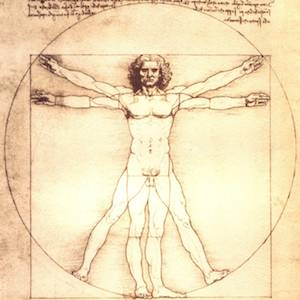
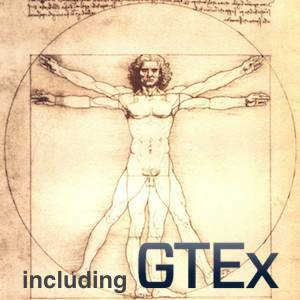
Make visible that Bgee contains GTEx data

Changed region(s): [[0.45, 0.78, 0.93, 0.99], [0.06, 0.9, 0.42, 0.99]]

diff --git a/bgee-webapp/src/main/java/org/bgee/view/html/HtmlDocumentationDisplay.java b/bgee-webapp/src/main/java/org/bgee/view/html/HtmlDocumentationDisplay.java
@@ -384,12 +384,123 @@ public class HtmlDocumentationDisplay extends HtmlParentDisplay implements Docum
                 "Download the complete dump of the MySQL Bgee database, that contains "
                         + "all the data used to generate the information displayed on this website."));
 
-
-        this.writeln("</div>");
+        this.writeln("</div>"); // close feature_list
         
         this.endDisplay();
 
         log.exit();
+    }
+
+    @Override
+    public void displayDataSets() {
+        log.entry();
+
+        RequestParameters urlExprCalls = this.getNewRequestParameters();
+        urlExprCalls.setPage(RequestParameters.PAGE_DOWNLOAD);
+        urlExprCalls.setAction(RequestParameters.ACTION_DOWLOAD_CALL_FILES);
+
+        RequestParameters urlSearch = this.getNewRequestParameters();
+        urlSearch.setPage(RequestParameters.PAGE_GENE);
+        
+        RequestParameters urlTopAnat = this.getNewRequestParameters();
+        urlTopAnat.setPage(RequestParameters.PAGE_TOP_ANAT);
+
+        this.startDisplay("Data sets into Bgee");
+
+        this.writeln("<h1>GTEx data into Bgee</h1>");
+
+        this.writeln("<div class='row'>");
+        this.writeln("<div class='" + CENTERED_ELEMENT_CLASS + "'>");
+
+        this.writeln("<div id='bgee_introduction'><p>In addition to the continuous growth of transcriptomics " +
+                "datasets, a few projects are generating very large amounts of data individually. " +
+                "Notably, <a href='https://www.gtexportal.org/home/' title='GTEx portal' target='_blank'>" +
+                "GTEx project</a> provides very interesting information on human gene expression.</p></div>");
+
+        this.writeln("<h2>Annotation process</h2>");
+        this.writeln("<div class='doc_content'>");
+        this.writeln("    <p>We applied a stringent re-annotation process to the GTEx data to retain " +
+                "only healthy tissues and non-contaminated samples, using the information available " +
+                "under restricted-access. For instance, we rejected all samples for 31&#37; of subjects, " +
+                "deemed globally unhealthy from the pathology report (e.g., drug abuse, diabetes, BMI &#62; 35), " +
+                "as well as specific samples from another 28&#37; of subjects who had local pathologies " +
+                "(e.g., brain from Alzheimer patients). We also rejected samples with contamination " +
+                "from other tissues.</p>" +
+                "        <p>In total, only 50&#37; of samples were kept; these represent a high quality " +
+                "subset of GTEx. All these samples were re-annotated manually to specific Uberon " +
+                "anatomy and aging terms.<p>");
+        this.writeln("</div>");
+        
+        this.writeln("<h2>GTEx data into Bgee</h2>");
+        this.writeln("<div class='doc_content'>");
+        this.writeln("<p>All corresponding RNA-seq were reanalyzed in the Bgee pipeline, " +
+                "consistently with all other healthy RNA-seq from human and other species. " +
+                "These data are being made available both through the website, " +
+                "and through <a href='https://bioconductor.org/packages/release/bioc/html/BgeeDB.html' " +
+                "class='external_link' target='_blank'>BgeeDB R package</a> " +
+                "(with sensitive information hidden).</p>");
+        this.writeln("</div>");
+
+        this.writeln("<h3>GTEx data into our website</h3>");
+        this.writeln("<div class='doc_content'>");
+        this.writeln("<ul>");
+        this.writeln("  <li>Annotations can be retrieved from <a href='"+ this.prop.getFTPRootDirectory() +
+                "/download/processed_expr_values/rna_seq/Homo_sapiens/Homo_sapiens_RNA-Seq_experiments_libraries.zip' " +
+                "title='Retrieve human RNA-Seq data per experiment'>RNA-Seq human experiments/libraries info</a>. " +
+                "Experiment ID of GTEx is 'SRP012682'.</li>");
+        this.writeln("  <li>Processed expression values, from GTEx only, are available on our FTP " +
+                "(<a href='" + this.prop.getFTPRootDirectory() + "/download/processed_expr_values/" +
+                "rna_seq/Homo_sapiens/Homo_sapiens_RNA-Seq_read_counts_TPM_FPKM_SRP012682.tsv.zip'>" +
+                "download file</a>).</li>");
+        this.writeln("  <li>Gene expression calls are included into <a href='" + urlExprCalls.getRequestURL() +
+                "#id1'>human files</a></li>");
+        this.writeln("  <li>Each human gene page and includes GTEx data if there is any " +
+                "(search a gene <a href='" + urlSearch.getRequestURL() + "'>here</a>).</li>");
+        this.writeln("  <li>TopAnat analyses can be performs <a href='" + urlTopAnat.getRequestURL() +
+                "'>here</a>, which leverage the power of the abundant GTEx data integrated " +
+                "with many smaller datasets to provide biological insight into gene lists.</li>");
+        this.writeln("</ul>");
+        this.writeln("</div>");
+
+        this.writeln("<h3>GTEx data using R package</h3>");
+        this.writeln("<div class='doc_content'>");
+        this.writeln("<ul>");
+        this.writeln("  <li>Annotations can be retrieved from RNA-Seq human experiments/libraries " +
+                "information. Experiment ID of GTEx is 'SRP012682'.");
+        this.writeln("<pre><code>{");
+        this.writeln("    bgee <- Bgee$new(species = \"Homo_sapiens\", dataType = \"rna_seq\")");
+        this.writeln("    myAnnotation <- getAnnotation(bgee)");
+        this.writeln("}");
+        this.writeln("</code></pre></li>");
+
+        this.writeln("  <li>Quantitative expression data and presence calls for GTEx can be loaded.");
+        this.writeln("<pre><code>{");
+        this.writeln("    bgee <- Bgee$new(species = \"Homo_sapiens\", dataType = \"rna_seq\")");
+        this.writeln("    dataGTEx <- getData(bgee, experimentId = \"SRP012682\")");
+        this.writeln("}");
+        this.writeln("</code></pre></li>");
+
+        this.writeln("  <li>TopAnat analyses can be performs, which leverage the power of the " +
+                "abundant GTEx data integrated with many smaller datasets to provide biological " +
+                "insight into gene lists.");
+        this.writeln("<pre><code>{");
+        this.writeln("    bgee <- Bgee$new(species = \"Homo_sapiens\", dataType = \"rna_seq\")");
+        this.writeln("    myTopAnatData <- loadTopAnatData(bgee)");
+        this.writeln("    geneList <- as.factor(c(rep(0, times=90), rep(1, times=10)))");
+        this.writeln("    names(geneList) <- c(\"ENSMUSG00000064370\", \"ENSMUSG00000064368\", \"ENSMUSG00000064367\")");
+        this.writeln("    myTopAnatObject <- topAnat(myTopAnatData, geneList, nodeSize=1)");
+        this.writeln("}");
+        this.writeln("</code></pre></li>");
+        this.writeln("</ul>");
+        this.writeln("</div>");
+
+        this.writeln("</div>"); // close specific class
+        this.writeln("</div>"); // close row
+
+        this.endDisplay();
+
+        log.exit();
+
     }
 
     //*******************************************************

diff --git a/bgee-webapp/src/main/java/org/bgee/view/html/HtmlParentDisplay.java b/bgee-webapp/src/main/java/org/bgee/view/html/HtmlParentDisplay.java
@@ -25,7 +25,7 @@ import org.bgee.view.ViewFactory;
  * @author  Valentine Rech de Laval
  * @author  Philippe Moret
  * @author  Sebastien Moretti
- * @version Bgee 14, Feb. 2018
+ * @version Bgee 14, May 2018
  * @since   Bgee 13, Jul. 2014
  */
 public class HtmlParentDisplay extends ConcreteDisplayParent {
@@ -366,6 +366,10 @@ public class HtmlParentDisplay extends ConcreteDisplayParent {
         urlDocBgeeAccess.setPage(RequestParameters.PAGE_DOCUMENTATION);
         urlDocBgeeAccess.setAction(RequestParameters.ACTION_DOC_HOW_TO_ACCESS);
 
+        RequestParameters urlDocDataSets = this.getNewRequestParameters();
+        urlDocDataSets.setPage(RequestParameters.PAGE_DOCUMENTATION);
+        urlDocDataSets.setAction(RequestParameters.ACTION_DOC_DATA_SETS);
+
         RequestParameters urlDocExprCallFiles = this.getNewRequestParameters();
         urlDocExprCallFiles.setPage(RequestParameters.PAGE_DOCUMENTATION);
         urlDocExprCallFiles.setAction(RequestParameters.ACTION_DOC_CALL_DOWLOAD_FILES);
@@ -437,10 +441,10 @@ public class HtmlParentDisplay extends ConcreteDisplayParent {
         navbar.append("<a href='#' class='dropdown-toggle' data-toggle='dropdown' role='button' "
               + "aria-haspopup='true' aria-expanded='false'>Download <span class='caret'></span></a>");
         navbar.append("<ul class='dropdown-menu'>");
-        navbar.append("<li><a href='" + urlDownloadExprCallFiles.getRequestURL() + "'>"
-              + GENE_EXPR_CALLS_PAGE_NAME + "</a></li>");
-        navbar.append("<li><a href='" + urlDownloadProcValueFile.getRequestURL() + "'>"
-              + PROCESSED_EXPR_VALUES_PAGE_NAME + "</a></li>");
+        navbar.append("<li><a href='").append(urlDownloadExprCallFiles.getRequestURL()).append("'>")
+                .append(GENE_EXPR_CALLS_PAGE_NAME).append("</a></li>");
+        navbar.append("<li><a href='").append(urlDownloadProcValueFile.getRequestURL()).append("'>")
+                .append(PROCESSED_EXPR_VALUES_PAGE_NAME).append("</a></li>");
         navbar.append("<li><a href='" + BGEE_R_PACKAGE_URL + "' target='_blank'>"
                 + "BgeeDB R package</a></li>");
         navbar.append("</ul>");
@@ -451,19 +455,22 @@ public class HtmlParentDisplay extends ConcreteDisplayParent {
         navbar.append("<a href='#' class='dropdown-toggle' data-toggle='dropdown' role='button' "
               + "aria-haspopup='true' aria-expanded='false'>Documentation <span class='caret'></span></a>");
         navbar.append("<ul class='dropdown-menu'>");
-        navbar.append("<li><a title='See how to access to Bgee data' href='" + urlDocBgeeAccess.getRequestURL()
-              + "'>How to access Bgee data</a></li>");
-        navbar.append("<li><a title='TopAnat documentation' href='" + urlDocTopAnat.getRequestURL()
-              + "'>" + TOP_ANAT_PAGE_NAME + "</a></li>");
-        navbar.append("<li><a title='Gene expression call files documentation' href='" + 
-              urlDocExprCallFiles.getRequestURL() + "'>" + GENE_EXPR_CALLS_PAGE_NAME + "</a></li>");
+        navbar.append("<li><a title='See how to access to Bgee data' href='")
+                .append(urlDocBgeeAccess.getRequestURL()).append("'>How to access Bgee data</a></li>");
+        navbar.append("<li><a title='See how to access to GTEx data'href='")
+                .append(urlDocDataSets.getRequestURL()).append("'>GTEx into Bgee</a></li>");
+        navbar.append("<li><a title='TopAnat documentation' href='").append(urlDocTopAnat.getRequestURL())
+                .append("'>").append(TOP_ANAT_PAGE_NAME).append("</a></li>");
+        navbar.append("<li><a title='Gene expression call files documentation' href='")
+                .append(urlDocExprCallFiles.getRequestURL()).append("'>").append(GENE_EXPR_CALLS_PAGE_NAME)
+                .append("</a></li>");
 //        navbar.append("<li><a title='Processed expression value files documentation' href='" + 
 //            urlDocProcValueFiles.getRequestURL() + "'>" + PROCESSED_EXPR_VALUES_PAGE_NAME + "</a></li>");
         navbar.append("<li><a href='https://bioconductor.org/packages/release/bioc/manuals/BgeeDB/man/BgeeDB.pdf'"
                 + " target='_blank'>BgeeDB R package</a></li>");
         navbar.append("<li><a title='Bgee blog' href='https://bgeedb.wordpress.com' target='_blank'>Bgee blog</a></li>");
-        navbar.append("<li><a title='Bgee sources' href='" + urlBgeeSources.getRequestURL()
-              + "'>Bgee sources</a></li>");
+        navbar.append("<li><a title='Bgee sources' href='").append(urlBgeeSources.getRequestURL())
+                .append("'>Bgee sources</a></li>");
         navbar.append("</ul>");
         navbar.append("</li>");
         

diff --git a/bgee-webapp/src/main/java/org/bgee/view/html/HtmlGeneralDisplay.java b/bgee-webapp/src/main/java/org/bgee/view/html/HtmlGeneralDisplay.java
@@ -7,7 +7,6 @@ import java.util.Map;
 
 import javax.servlet.http.HttpServletResponse;
 
-import org.apache.commons.lang3.StringUtils;
 import org.apache.logging.log4j.LogManager;
 import org.apache.logging.log4j.Logger;
 import org.bgee.controller.BgeeProperties;
@@ -24,8 +23,8 @@ import org.bgee.view.html.HtmlDownloadDisplay.DownloadPageType;
  * @author  Frederic Bastian
  * @author  Valentine Rech de Laval
  * @author  Philippe Moret
- * @version Bgee 14, Feb. 2018
- * @since   Bgee 13
+ * @version Bgee 14, May 2018
+ * @since   Bgee 13, July 2014
  */
 public class HtmlGeneralDisplay extends HtmlParentDisplay implements GeneralDisplay {
 
@@ -179,7 +178,9 @@ public class HtmlGeneralDisplay extends HtmlParentDisplay implements GeneralDisp
         this.writeln("<h2>Gene expression data</h2>");
         this.writeln("<p>Bgee is a database to retrieve and compare gene expression patterns "
                 + "in multiple animal species, produced from multiple data types "
-                + "(RNA-Seq, Affymetrix, <em>in situ</em> hybridization, and EST data).</p>");
+                + "(RNA-Seq, Affymetrix, <em>in situ</em> hybridization, and EST data) "
+				+ "and from multiple data sets (including <a href='https://www.gtexportal.org/home/'" +
+				" title='GTEx portal' target='_blank'>GTEx data</a>).</p>");
         this.writeln("</div>");
         
         this.writeln("<div class='col-sm-4'>");

diff --git a/bgee-webapp/src/main/java/org/bgee/controller/CommandDocumentation.java b/bgee-webapp/src/main/java/org/bgee/controller/CommandDocumentation.java
@@ -15,9 +15,9 @@ import org.bgee.view.ViewFactory;
  * Controller that handles requests having the category "documentation", i.e. with the parameter
  * page=documentation
  *
- * @author 	Valentine Rech de Laval
- * @version Bgee 13
- * @since 	Bgee 13
+ * @author  Valentine Rech de Laval
+ * @version Bgee 14, May 2018
+ * @since   Bgee 13, Mar. 2015
  */
 public class CommandDocumentation extends CommandParent {
 
@@ -62,6 +62,9 @@ public class CommandDocumentation extends CommandParent {
         } else if (this.requestParameters.getAction().equals(
                 RequestParameters.ACTION_DOC_HOW_TO_ACCESS)) {
             display.displayHowToAccessDataDocumentation();
+        } else if (this.requestParameters.getAction().equals(
+                RequestParameters.ACTION_DOC_DATA_SETS)) {
+            display.displayDataSets();
         } else {
             throw log.throwing(new PageNotFoundException("Incorrect " + 
                 this.requestParameters.getUrlParametersInstance().getParamAction() + 

diff --git a/bgee-webapp/src/main/java/org/bgee/controller/RequestParameters.java b/bgee-webapp/src/main/java/org/bgee/controller/RequestParameters.java
@@ -85,7 +85,7 @@ import org.bgee.model.expressiondata.baseelements.SummaryQuality;
  * @author  Mathieu Seppey
  * @author  Frederic Bastian
  * @author  Valentine Rech de Laval
- * @version Bgee 14, Mar. 2017
+ * @version Bgee 14, May 2018
  * @since   Bgee 1
  */
 public class RequestParameters {
@@ -228,6 +228,12 @@ public class RequestParameters {
      * {@link #PAGE_DOCUMENTATION}.
      */
     public static final String ACTION_DOC_TOP_ANAT = "top_anat";
+    /**
+     * A {@code String} that is the value taken by the {@code action} parameter 
+     * (see {@link URLParameters#getParamAction()}) when documentation about data sets  
+     * is requested. Value of the parameter page should be {@link #PAGE_DOCUMENTATION}.
+     */
+    public static final String ACTION_DOC_DATA_SETS = "data_sets";
     /**
      * A {@code String} that is the value taken by the {@code action} parameter 
      * (see {@link URLParameters#getParamAction()}) when a species data is requested.

diff --git a/bgee-webapp/src/main/java/org/bgee/view/DocumentationDisplay.java b/bgee-webapp/src/main/java/org/bgee/view/DocumentationDisplay.java
@@ -4,8 +4,8 @@ package org.bgee.view;
  * Interface that defines methods displaying the documentation category, i.e. page=documentation
  *
  * @author  Valentine Rech de Laval
- * @version Bgee 13, Feb 2016
- * @since   Bgee 13
+ * @version Bgee 14, May 2018
+ * @since   Bgee 13, Mar. 2015
  */
 public interface DocumentationDisplay {
     
@@ -33,4 +33,8 @@ public interface DocumentationDisplay {
      */
     public void displayHowToAccessDataDocumentation();
     
+    /**
+     * Display the documentation about data sets in Bgee.
+     */
+    public void displayDataSets();
 }
